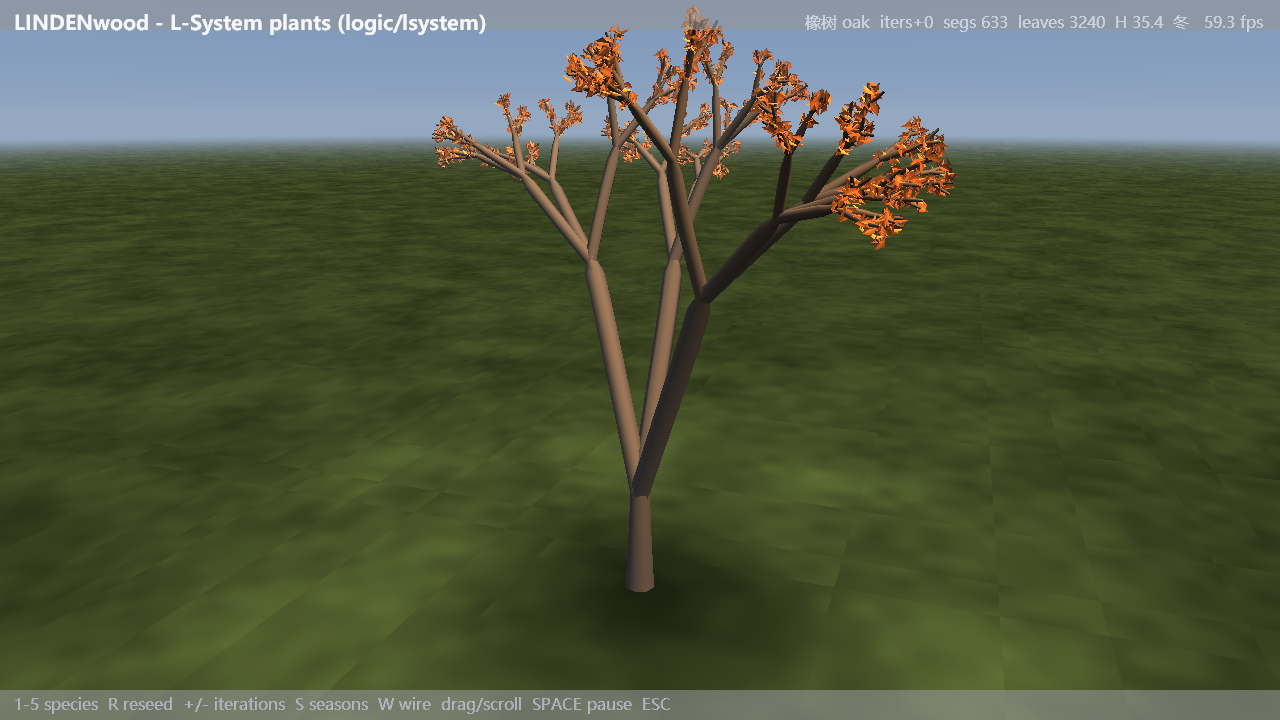
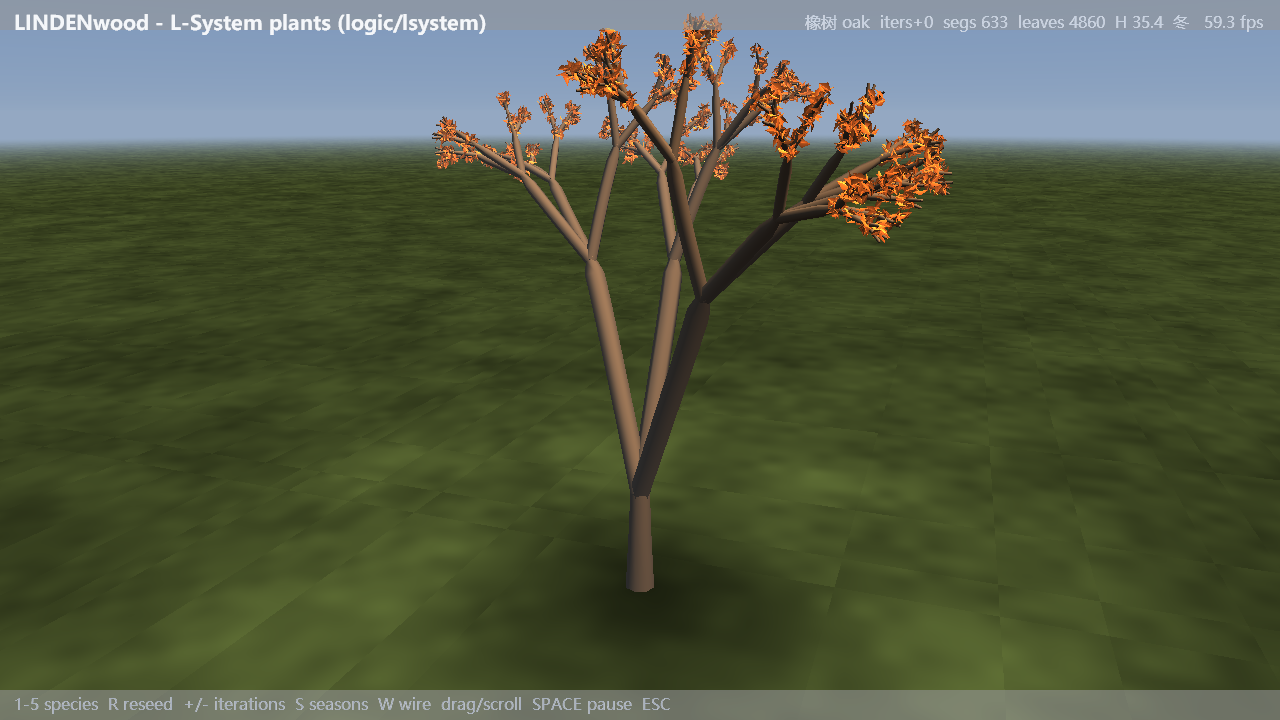
Record the 4 new demos; denser lindenwood canopy; pin framebuffer size
record_all.py: new entries for wardfall/cellward/lindenwood/collapseward,
each时长取自演示循环周期的整数倍 (DAY_LEN 48 / CYCLE_SEC 8 x5 / two
seasons 52 / ~4 WFC rounds 40). Also force the framebuffer to the entry's
size before capture -- on a 960x600 desktop a 1280x720 window is not
guaranteed to end up at the requested size, and a half-size MP4 is only
detectable afterwards with ffprobe.

lindenwood: host_frac 0.012 -> 0.030 and 8 -> 12 leaves per host node.
Oak leaves 3240 -> 4860 (48k verts), the autumn shot now reads as a real
canopy instead of golden clusters on bare twigs. Shots refreshed.

README: document WORLD3D_FFMPEG and a --only line for the four new demos.

Changed region(s): [[0.3438, 0.0, 0.75, 0.3361]]

diff --git a/scripts/record_all.py b/scripts/record_all.py
@@ -136,6 +136,23 @@ ENTRIES = [
     dict(name='sandward_50s',        mod='examples/sandward.py',     cls='SandwardApp',
          dur=50.0, size=DEMO_SIZE,
          flags='auto'),
+
+    # ---- 2026-10-25 新增 4 个 demo（town / ca / lsystem / wfc）----
+    # 时长都取"自演示循环周期"的整数倍，录满一轮才无缝：
+    dict(name='wardfall_48s',        mod='examples/wardfall.py',     cls=None,
+         dur=48.0, size=DEMO_SIZE),
+         # DAY_LEN=48：完整昼夜一轮（正午 → 黄昏 → 夜里逐窗点亮 → 日出）；
+         # 相机 5°/s 自转，48s 绕 240°
+    dict(name='cellward_40s',        mod='examples/cellward.py',     cls=None,
+         dur=40.0, size=DEMO_SIZE),
+         # CYCLE_SEC=8：默认自动轮播，40s 正好走过 5 条 showcase 规则
+    dict(name='lindenwood_52s',      mod='examples/lindenwood.py',   cls=None,
+         dur=52.0, size=DEMO_SIZE),
+         # SEASON_LEN=26：52s = 两轮四季（春→夏→秋→冬→落叶→回春）
+    dict(name='collapseward_40s',    mod='examples/collapseward.py', cls=None,
+         dur=40.0, size=DEMO_SIZE),
+         # 110 步/s ⇒ 一局（560 格）≈5.6s + 定格 5s ⇒ 约 10.6s/局，40s 录到 3~4 局
+         # 不同 seed。别加 `hold` —— 那是定格终局观察用的，加了只录得到一局
 ]
 
 #: 跨仓约定：本仓 = `<PROJECTS_ROOT>/3dworld`，兄弟仓直接按相对名找（铁律 5，不写死盘符）
@@ -268,7 +285,34 @@ def build_app(entry):
         app._capture_due = lambda: None
     if hasattr(app, 'shots'):
         app.shots = []
+    # 帧缓冲尺寸 = 回读尺寸，钉一次比不钉稳：本机桌面只有 960×600 时，
+    # pyglet 建 1280×720 窗口**可能**被系统裁到桌面装得下的档位（取决于窗口管理器）。
+    # `resizable=True` 的窗口大多会被拉回请求尺寸，但这不是保证 —— 录出来半尺寸
+    # 的片子看不出错，只能事后 ffprobe 核对。所以这里主动 set_size 并要求一致。
+    # 注意：它**只管窗口**，画面里的信箱留边（如 cellward 按网格宽高比留黑边）
+    # 是 demo 自己的布局，别看到黑边就以为尺寸错了（2026-10-25 就这么误判过一回）。
+    _force_framebuffer_size(app, *(entry['size'] or (None, None)))
     return app, cls
+
+
+def _force_framebuffer_size(app, w, h):
+    """把窗口/帧缓冲拉到录制尺寸；拿不到就如实报，别录出半尺寸的片子。"""
+    if not w or not h:
+        return
+    window = getattr(app, 'window', None)
+    if window is None:
+        win_holder = getattr(app, 'renderer', None)
+        window = getattr(win_holder, 'window', None)
+    if window is None:
+        return
+    window.switch_to()
+    try:
+        window.set_size(w, h)
+    except Exception as exc:                    # 窗口系统拒绝（全屏独占等）
+        print(f'  [warn] set_size({w},{h}) 失败：{exc}', flush=True)
+    if (window.width, window.height) != (w, h):
+        print(f'  [warn] 实际帧缓冲 {window.width}x{window.height}（期望 {w}x{h}）——'
+              f'成片尺寸会跟着变', flush=True)
 
 
 def app_duration(app, cls, fallback):

diff --git a/examples/lindenwood.py b/examples/lindenwood.py
@@ -493,7 +493,7 @@ def build_plant(preset, seed, extra_iters=0):
     # 而且叶位沿整条线段随机取 —— 否则长枝中段光秃秃，
     # 冠层缩成枝头上的几团"绿爆米花"（垂柳第一批版本就栽在这）。
     leaf_count = 0
-    host_frac = 0.012
+    host_frac = 0.030
     hosts = [i for i in range(len(segs))
              if leaves[i] <= max(4.0, total_leaves * host_frac)]
     rng.shuffle(hosts)
@@ -508,7 +508,7 @@ def build_plant(preset, seed, extra_iters=0):
         tip = (a[0] + (bpt[0] - a[0]) * tt,
                a[1] + (bpt[1] - a[1]) * tt,
                a[2] + (bpt[2] - a[2]) * tt)
-        for _ in range(8):
+        for _ in range(12):
             s = lscale * (0.30 + 0.26 * rng.random())
             # 随机朝向的薄片：取一个随机法线，再在其平面内张开
             nx, ny, nz = (rng.gauss(0, 1), rng.gauss(0, 1), rng.gauss(0, 1))

diff --git a/README.md b/README.md
@@ -69,8 +69,14 @@ dist/            exe 与发行版包（本地产物，不入库）
 python scripts\verify_demos.py                全部演示冒烟 + 截图验收
 python scripts\verify_demos.py --bench 3       真实帧率（vsync 与重绘节流全关）
 python scripts\record_all.py --list            查看可录制条目
+python scripts\record_all.py --only wardfall_48s,cellward_40s,lindenwood_52s,collapseward_40s
+                                               只录新增的 4 个（town/ca/lsystem/wfc）
 python scripts\build_exe.py --pack             打包精选 6 个 + 组装发行版
 ```
+
+> 录制需要 ffmpeg：按 `WORLD3D_FFMPEG` 环境变量 → PATH → `<projects>/<兄弟仓>` 相对候选
+> 的顺序找**可跑通的**那一份（PATH 里可能出现坏壳）。Windows PowerShell 里设一次：
+> `$env:WORLD3D_FFMPEG = 'D:\musickit\radio\ffmpeg\ffmpeg.exe'`（换成你本机的路径）。
 
 分发（成片 / exe / Gitee release）的完整手册见 [docs/分发指南.md](docs/分发指南.md)。
 
